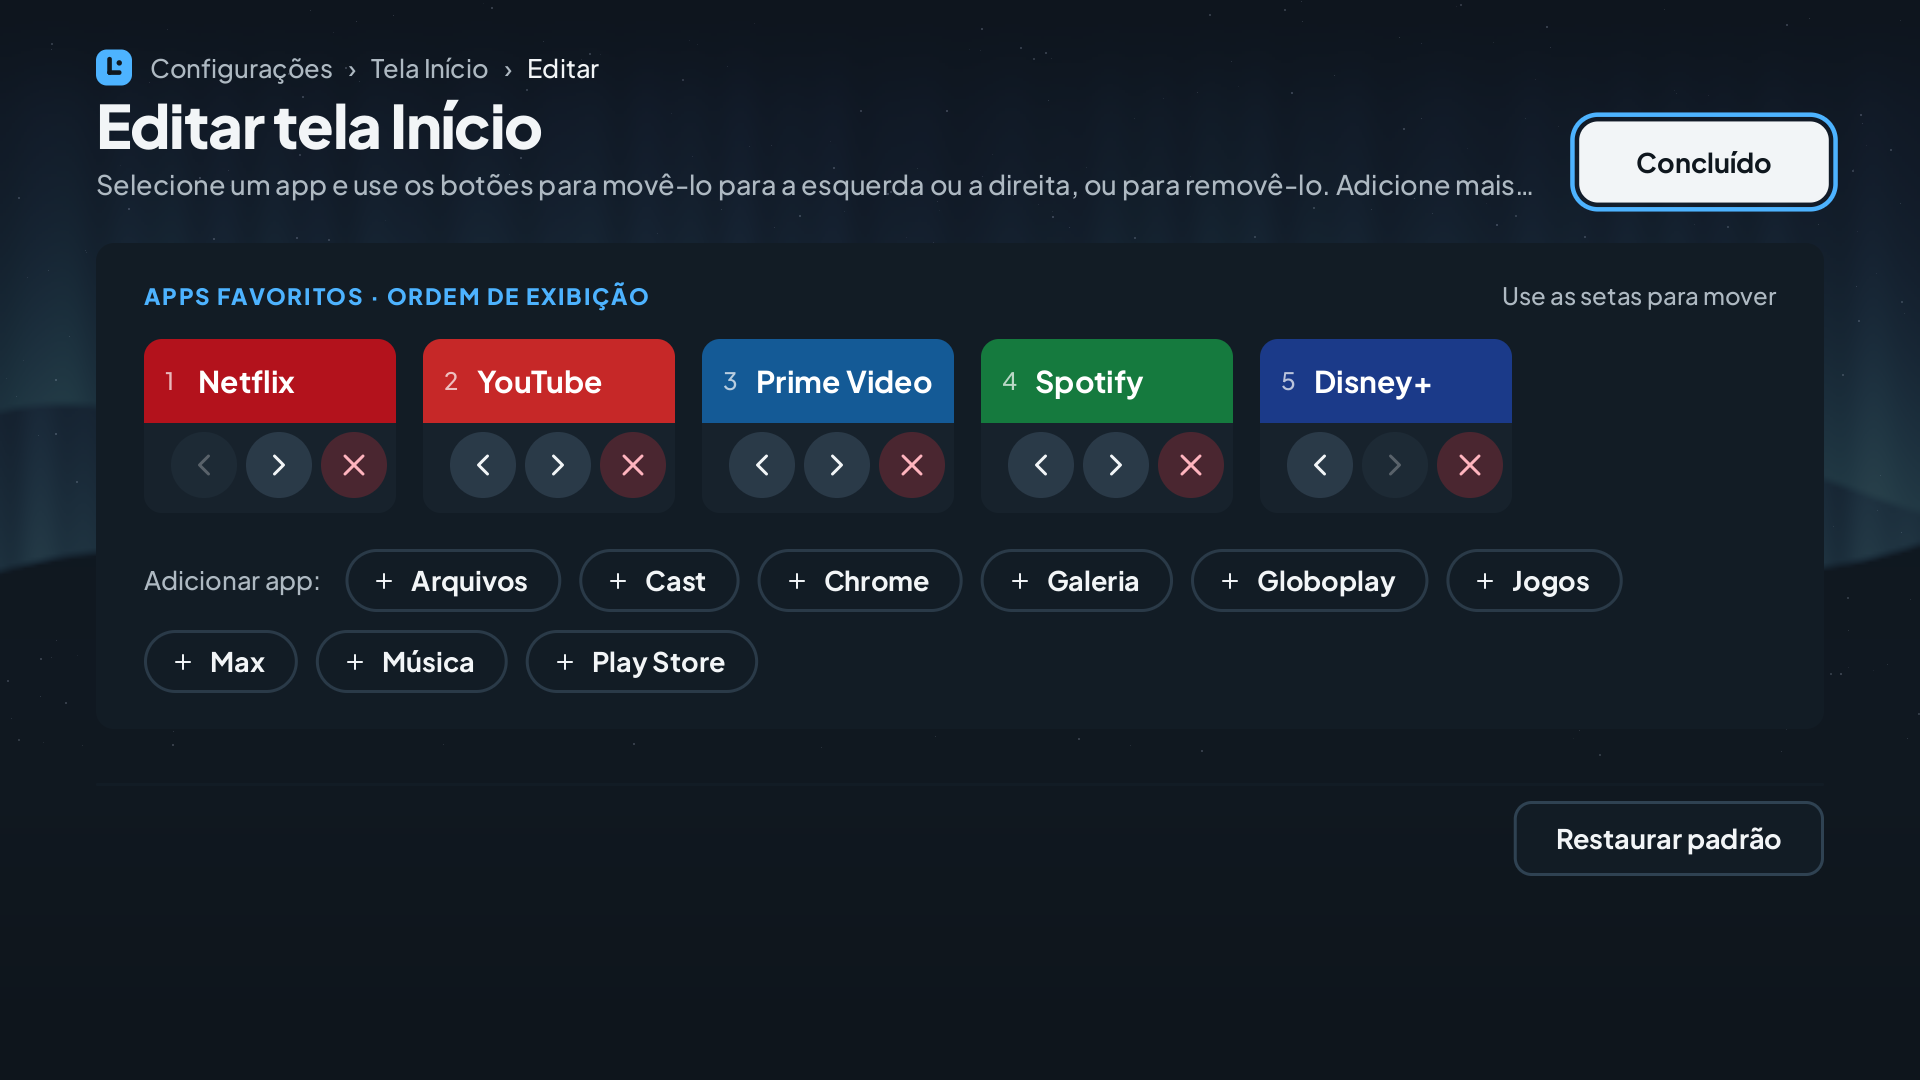
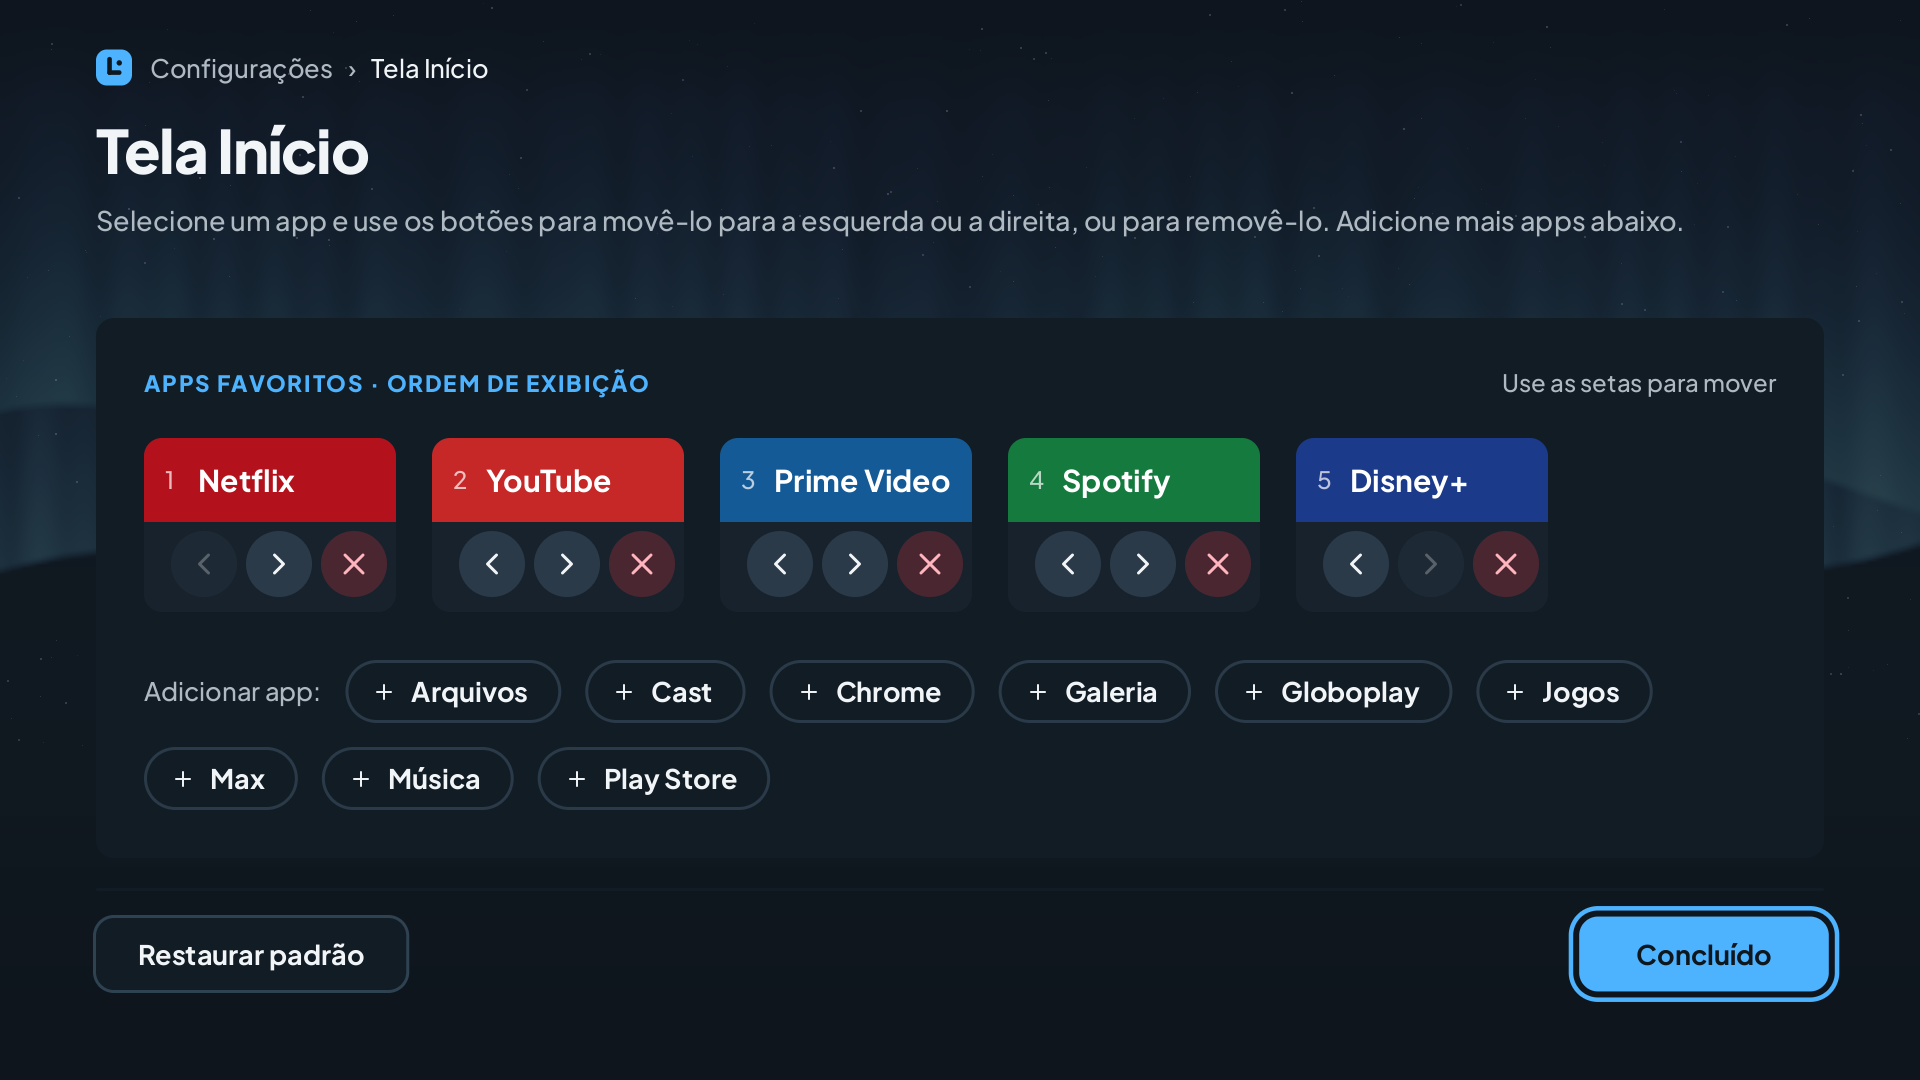
docs: Lume spelling, device notes, README screenshots and device specs
Claude-Session: https://claude.ai/code/session_01Kem4RuEAzUJtvQpxATGT86

diff --git a/CLAUDE.md b/CLAUDE.md
@@ -1,22 +1,29 @@
 # lume: guia para quem retoma o projeto
 
-lume é uma tela inicial (launcher) rápida e leve para Android TV, escrita em Rust (interface, tema, renderização OpenGL ES 2.0)
+Lume é uma tela inicial (launcher) rápida e leve para Android TV, escrita em Rust (interface, tema, renderização OpenGL ES 2.0)
 com uma camada fina de Java (`LumeActivity` e `LumeBridge`, só onde o Android exige). Orçamentos e decisões ficam nas specs.
 
 ## Onde está a verdade
 
 - `openspec/specs/`: o comportamento atual, por capacidade (home-screen, apps-screen, launcher-shell, wallpaper, theming, resource-efficiency...).
-- `openspec/changes/archive/`: o histórico das changes (`2026-10-19-lume-launcher-v0-1-0`, `2026-10-20-dock-aurora-redesign`). Nenhuma change está ativa.
+- `openspec/changes/archive/`: o histórico das changes (`2026-10-19-lume-launcher-v0-1-0`, `2026-10-20-dock-aurora-redesign`, `2026-10-20-v0-2-1`). Nenhuma change está ativa.
 - `docs/handoff-dock-aurora.md`: decisões do v0.2.0, armadilhas já resolvidas, como rodar e testar.
 - `docs/device-notes.md`: medidas na TV de referência (memória, quadros, CPU, tempos).
 - `docs/theme-format.md`, `docs/wallpaper.md`, `docs/translations.md`: formato do tema, papel de parede e traduções.
 
+## Design system
+
+A spec `openspec/specs/design-system/` é a regra visual: tokens, tipografia, medidas, componentes, foco e movimento.
+Leia antes de criar ou alterar qualquer tela; valores em `themes/lume/theme.css`; divergiu, atualize a spec no mesmo change.
+
 ## Estado
 
-v0.2.0 concluída e mesclada na `main` por squash (2026-10-20). Não há remoto git configurado; nada foi publicado.
+v0.2.0 mesclada na `main` por squash (2026-10-20). v0.2.1 (entradas, engrenagem, painel de estatísticas, design system) arquivada em
+`openspec/changes/archive/2026-10-20-v0-2-1`, na branch `feat/v0-2-1`, com PR aberta para a `main`. Remoto: `origin` (GitHub `douglaspands/tv-lume-launcher`).
 Pendências conhecidas, que dependem do autor: keystore de release, CI e release no GitHub, tag `v0.1.0`/`v0.2.0`,
-verificação em emulador Android TV e decisão sobre o orçamento do retorno a quente (a spec diz 300 ms; o sistema da TCL
-gasta cerca de 400 ms só na troca de janelas, o lume 75 a 110 ms; a proposta é medir só a parte do lume, até 150 ms).
+verificação em emulador Android TV (a máquina de desenvolvimento não tem emulador nem SDK de AVD: instalar o Android Studio ou `cmdline-tools` com
+imagem `system-images;android-28;android-tv;x86`, para validar o Android 9, tarefa 5.3 da `v0-2-1`, encerrada sem essa validação e deixada para uma spec futura de testes) e decisão sobre o orçamento do retorno a quente (a spec diz 300 ms; o sistema da TCL
+gasta cerca de 400 ms só na troca de janelas, o Lume 75 a 110 ms; a proposta é medir só a parte do Lume, até 150 ms).
 
 ## Como trabalhar aqui
 
@@ -32,12 +39,13 @@ gasta cerca de 400 ms só na troca de janelas, o lume 75 a 110 ms; a proposta é
 cargo test --workspace && cargo clippy --workspace --all-targets   # deve ficar limpo; cargo fmt --all
 cargo run -p lume-desktop -- --size 1920x1080 --locale en --keys right --screenshot home h.png   # telas: home apps settings about editor
 scripts/container-build.sh release       # APK em dist/ (runtime: wslc, docker, podman, nesta ordem; LUME_CONTAINER força outro)
-/usr/bin/python3 scripts/verify-apk.py dist/lume-0.2.0-release-debugsigned.apk   # limite 6 MB
+/usr/bin/python3 scripts/verify-apk.py dist/lume-0.2.1-release-debugsigned.apk   # limite 6 MB
 ```
 
 ## TV de referência (testes por adb)
 
-TCL 55C715 (2 GB de RAM, 4 núcleos), `adb -s 192.168.0.6:5555`; o autor autorizou testar nela.
+TCL 55C715 (2 GB de RAM, 4 núcleos), `adb -s 192.168.0.6:5555`; o autor autorizou testar nela. A TCL roda o firmware global (Android 11); o firmware original do Brasil é Android 9.
+Segunda TV de teste: AIWA SMART TV (KTC, 1280x720, ~913 MB de RAM, `low_ram`), `adb -s 192.168.0.3:5555`. Comparação em `docs/device-notes.md`.
 
 - Instalar: `adb uninstall app.lume.tv` antes (a chave de debug muda a cada build no container), depois `adb install dist/<apk>` e
   `adb shell cmd package set-home-activity app.lume.tv/.LumeActivity`.
@@ -53,8 +61,8 @@ TCL 55C715 (2 GB de RAM, 4 núcleos), `adb -s 192.168.0.6:5555`; o autor autoriz
 - Abas: mover o foco para uma aba troca a tela sem OK, com fade de 180 ms. Sublinhado azul com o foco na barra, branco com o foco no conteúdo.
 - Cores por papel (`--primary` azul `#4DB3FF`, `--secondary`); todo contorno de foco é azul primário; o nome do app em foco fica branco.
 - Grade de Apps: 6 colunas, ordem alfabética pelo nome mostrado (muda com o idioma do sistema). O tile "Lume" é um app como os outros
-  (retangular, logo) e abre as Configurações do lume. A marca se escreve "Lume" na interface.
-- Home com o lume visível leva à aba Início; voltando de um app aberto pelo lume, restaura tela, foco e rolagem (uma vez).
+  (retangular, logo) e abre as Configurações do Lume (só por ele). Na barra superior, o botão de entradas abre o menu de entradas da TV (escondido se a ação não resolve) e a engrenagem abre as configurações do Android. A marca se escreve "Lume" na interface.
+- Home com o Lume visível leva à aba Início; voltando de um app aberto pelo Lume, restaura tela, foco e rolagem (uma vez).
 
 ## Armadilhas já resolvidas
 
@@ -64,7 +72,7 @@ TCL 55C715 (2 GB de RAM, 4 núcleos), `adb -s 192.168.0.6:5555`; o autor autoriz
 - Métodos Java chamados só pelo Rust (JNI) precisam de `-keep` em `android/app/proguard-rules.pro`.
 - Carregar ícones durante uma animação trava o dock: o laço só carrega quando `Shell::is_busy` é falso.
 - `entry_down`/`entry_up` de `Row` são do destino do foco, não da origem.
-- O Android da TCL encerra o processo do lume em segundo plano quando um app pesado abre; o retorno é então uma abertura a frio.
+- O Android da TCL encerra o processo do Lume em segundo plano quando um app pesado abre; o retorno é então uma abertura a frio.
 
 ## Orçamentos (spec `resource-efficiency`)
 

diff --git a/README.pt-BR.md b/README.pt-BR.md
@@ -1,10 +1,10 @@
-# lume
+# Lume
 
-**Uma tela inicial rápida e leve para Android TV.** O lume substitui o launcher que veio na sua TV por um launcher simples, feito para o controle remoto, que usa pouquíssima memória, deixando mais memória para os seus apps de streaming.
+**Uma tela inicial rápida e leve para Android TV.** O Lume substitui o launcher que veio na sua TV por um launcher simples, feito para o controle remoto, que usa pouquíssima memória, deixando mais memória para os seus apps de streaming.
 
 [English](README.md) | Português
 
-> **Situação:** o lume está em desenvolvimento. A versão 0.1.0 ainda não foi lançada, então ainda não há download. Os passos abaixo são o que você fará quando ela sair.
+> **Situação:** o Lume está em desenvolvimento. A versão 0.1.0 ainda não foi lançada, então ainda não há download. Os passos abaixo são o que você fará quando ela sair.
 
 <p align="center">
   <img src="docs/screenshots/home-pt-BR.png" alt="Tela Início com o dock" width="49%">
@@ -21,7 +21,7 @@
 - Uma tela "Apps" com tudo o que está instalado na TV.
 - Tudo funciona com o controle remoto comum (setas, OK, Voltar, Home).
 - Português (Brasil) e inglês, seguindo o idioma da TV.
-- Nenhum acesso à internet: o lume nunca se conecta à rede e não pede permissões perigosas.
+- Nenhum acesso à internet: o Lume nunca se conecta à rede e não pede permissões perigosas.
 
 **O que você precisa**
 
@@ -31,11 +31,11 @@
 
 ---
 
-## Instalar o lume na TV
+## Instalar o Lume na TV
 
 Você vai enviar o app do computador para a TV com uma ferramenta pequena chamada **adb**. Só precisa fazer isso uma vez.
 
-### 1. Baixe o lume
+### 1. Baixe o Lume
 
 1. Abra a página **Releases** deste projeto no GitHub.
 2. Na versão mais nova, baixe o arquivo com nome parecido com **`lume-0.1.0.apk`**.
@@ -82,17 +82,17 @@ Vai aparecer uma mensagem na TV perguntando *"Permitir a depuração USB?"*. Esc
 adb devices
 ```
 
-Você deve ver a sua TV com a palavra `device` ao lado. Agora instale o lume (use o caminho real do arquivo que você baixou):
+Você deve ver a sua TV com a palavra `device` ao lado. Agora instale o Lume (use o caminho real do arquivo que você baixou):
 
 ```
 adb install "C:\Users\Voce\Downloads\lume-0.1.0.apk"
 ```
 
-Quando aparecer `Success`, o lume está instalado.
+Quando aparecer `Success`, o Lume está instalado.
 
-### 6. Faça do lume a sua tela inicial
+### 6. Faça do Lume a sua tela inicial
 
-1. Aperte o botão **Home** do controle. O Android pode perguntar qual app usar como tela inicial: escolha **lume** e **Sempre**.
+1. Aperte o botão **Home** do controle. O Android pode perguntar qual app usar como tela inicial: escolha **Lume** e **Sempre**.
 2. Se nada foi perguntado, ou se o Home ainda abre o launcher antigo, rode:
 
    ```
@@ -107,7 +107,7 @@ Quando aparecer `Success`, o lume está instalado.
 
 ### Voltar ao launcher original
 
-Remova o lume e, se você desligou o launcher original, ligue-o de novo:
+Remova o Lume e, se você desligou o launcher original, ligue-o de novo:
 
 ```
 adb shell pm enable com.google.android.tvlauncher
@@ -121,15 +121,15 @@ adb uninstall app.lume.tv
 | `adb: command not found` / `'adb' não é reconhecido` | Você não está na pasta platform-tools. Abra o terminal dentro dela (passo 2). |
 | `failed to connect` / `unable to connect` | Confira o endereço da TV, se TV e computador estão na mesma rede e se a depuração está ligada. Tente desligar e ligar a TV. |
 | `device unauthorized` | Olhe a tela da TV e aceite o aviso, depois rode `adb devices` de novo. |
-| `INSTALL_FAILED_OLDER_SDK` | A sua TV tem Android anterior ao 9. O lume não roda nela. |
-| `INSTALL_FAILED_UPDATE_INCOMPATIBLE` | Há outra versão do lume instalada. Rode `adb uninstall app.lume.tv` e instale de novo. |
+| `INSTALL_FAILED_OLDER_SDK` | A sua TV tem Android anterior ao 9. O Lume não roda nela. |
+| `INSTALL_FAILED_UPDATE_INCOMPATIBLE` | Há outra versão do Lume instalada. Rode `adb uninstall app.lume.tv` e instale de novo. |
 | O Home abre o launcher antigo | Repita o passo 6, opções 2 e 3. |
 
 ---
 
 ## Para desenvolvedores
 
-O lume é escrito em Rust. Ele desenha toda a interface com OpenGL ES 2.0 (sem Views, WebView, AndroidX ou Kotlin) e libera toda a memória de GPU enquanto outro app está em primeiro plano.
+O Lume é escrito em Rust. Ele desenha toda a interface com OpenGL ES 2.0 (sem Views, WebView, AndroidX ou Kotlin) e libera toda a memória de GPU enquanto outro app está em primeiro plano.
 
 ### Estrutura do repositório
 
@@ -237,7 +237,7 @@ As traduções são arquivos `strings.xml` padrão do Android em `android/app/sr
 
 ### Papel de parede
 
-O lume desenha uma fotografia de aurora boreal atrás de todas as telas. Como ela é processada no build, como trocá-la e onde ficam a origem e a licença: [`docs/wallpaper.md`](docs/wallpaper.md).
+O Lume desenha uma fotografia de aurora boreal atrás de todas as telas. Como ela é processada no build, como trocá-la e onde ficam a origem e a licença: [`docs/wallpaper.md`](docs/wallpaper.md).
 
 ### Contribuição, licença e marca
 

diff --git a/README.md b/README.md
@@ -1,10 +1,10 @@
-# lume
+# Lume
 
-**A fast, lightweight home screen for Android TV.** lume replaces the launcher that came with your TV with a clean, remote-friendly one that uses very little memory, so your streaming apps get more of it.
+**A fast, lightweight home screen for Android TV.** Lume replaces the launcher that came with your TV with a clean, remote-friendly one that uses very little memory, so your streaming apps get more of it.
 
 English | [Português](README.pt-BR.md)
 
-> **Status:** lume is in development. Version 0.1.0 has not been released yet, so there is no download yet. The steps below are what you will do once it is out.
+> **Status:** Lume is in development. Version 0.1.0 has not been released yet, so there is no download yet. The steps below are what you will do once it is out.
 
 <p align="center">
   <img src="docs/screenshots/home-en.png" alt="Home screen with the dock" width="49%">
@@ -21,7 +21,7 @@ English | [Português](README.pt-BR.md)
 - An "Apps" screen with everything installed on your TV.
 - Everything works with the normal TV remote (arrows, OK, Back, Home).
 - Portuguese (Brazil) and English, following your TV's language.
-- No internet access at all: lume never connects to the network and asks for no dangerous permissions.
+- No internet access at all: Lume never connects to the network and asks for no dangerous permissions.
 
 **What you need**
 
@@ -31,11 +31,11 @@ English | [Português](README.pt-BR.md)
 
 ---
 
-## Install lume on your TV
+## Install Lume on your TV
 
 You will send the app to the TV from your computer with a small tool called **adb**. You only do this once.
 
-### 1. Download lume
+### 1. Download Lume
 
 1. Open the **Releases** page of this project on GitHub.
 2. Under the newest version, download the file named like **`lume-0.1.0.apk`**.
@@ -82,17 +82,17 @@ A message will pop up on the TV asking *"Allow USB debugging?"*. Choose **Always
 adb devices
 ```
 
-You should see your TV with the word `device` next to it. Now install lume (use the real path of the file you downloaded):
+You should see your TV with the word `device` next to it. Now install Lume (use the real path of the file you downloaded):
 
 ```
 adb install "C:\Users\You\Downloads\lume-0.1.0.apk"
 ```
 
-When you see `Success`, lume is installed.
+When you see `Success`, Lume is installed.
 
-### 6. Make lume your home screen
+### 6. Make Lume your home screen
 
-1. Press the **Home** button on your remote. Android may ask which home app to use: choose **lume** and **Always**.
+1. Press the **Home** button on your remote. Android may ask which home app to use: choose **Lume** and **Always**.
 2. If nothing was asked, or Home still opens the old launcher, run:
 
    ```
@@ -107,7 +107,7 @@ When you see `Success`, lume is installed.
 
 ### Go back to the original launcher
 
-Remove lume, and if you turned the original launcher off, turn it on again:
+Remove Lume, and if you turned the original launcher off, turn it on again:
 
 ```
 adb shell pm enable com.google.android.tvlauncher
@@ -121,15 +121,15 @@ adb uninstall app.lume.tv
 | `adb: command not found` / `'adb' is not recognized` | You are not in the platform-tools folder. Open the terminal inside it (step 2). |
 | `failed to connect` / `unable to connect` | Check the TV address, that the TV and the computer are on the same network, and that debugging is on. Try turning the TV off and on. |
 | `device unauthorized` | Look at the TV screen and accept the prompt, then run `adb devices` again. |
-| `INSTALL_FAILED_OLDER_SDK` | Your TV runs Android older than 9. lume cannot run on it. |
-| `INSTALL_FAILED_UPDATE_INCOMPATIBLE` | A different build of lume is installed. Run `adb uninstall app.lume.tv` and install again. |
+| `INSTALL_FAILED_OLDER_SDK` | Your TV runs Android older than 9. Lume cannot run on it. |
+| `INSTALL_FAILED_UPDATE_INCOMPATIBLE` | A different build of Lume is installed. Run `adb uninstall app.lume.tv` and install again. |
 | Home opens the old launcher | Repeat step 6, options 2 and 3. |
 
 ---
 
 ## For developers
 
-lume is written in Rust. It draws its whole interface itself with OpenGL ES 2.0 (no Views, no WebView, no AndroidX, no Kotlin) and releases all GPU memory while another app is in front.
+Lume is written in Rust. It draws its whole interface itself with OpenGL ES 2.0 (no Views, no WebView, no AndroidX, no Kotlin) and releases all GPU memory while another app is in front.
 
 ### Repository layout
 
@@ -237,7 +237,7 @@ Translations are standard Android `strings.xml` files in `android/app/src/main/r
 
 ### Wallpaper
 
-lume draws one northern-lights photograph behind every screen. How it is processed at build time, how to replace it and where its source and license are recorded: [`docs/wallpaper.md`](docs/wallpaper.md).
+Lume draws one northern-lights photograph behind every screen. How it is processed at build time, how to replace it and where its source and license are recorded: [`docs/wallpaper.md`](docs/wallpaper.md).
 
 ### Contributing, license and trademarks
 

diff --git a/docs/translations.md b/docs/translations.md
@@ -1,6 +1,6 @@
-# Translating lume
+# Translating Lume
 
-lume shows its texts in the language of the Android system. Translations are standard Android resource files, so you can edit them with any text editor, Android Studio, Weblate or Crowdin. You do not need to know Rust.
+Lume shows its texts in the language of the Android system. Translations are standard Android resource files, so you can edit them with any text editor, Android Studio, Weblate or Crowdin. You do not need to know Rust.
 
 ## Add a language
 
@@ -19,7 +19,7 @@ lume shows its texts in the language of the Android system. Translations are sta
    cp android/app/src/main/res/values/strings.xml android/app/src/main/res/values-es/strings.xml
    ```
 
-   (Create the `values-es` folder first.) The English file is the reference: it lists every text lume has.
+   (Create the `values-es` folder first.) The English file is the reference: it lists every text Lume has.
 
 3. Translate the text inside each `<string>` and each `<item>` of a `<plurals>`. Do **not** change the `name` attributes.
 
@@ -45,9 +45,9 @@ Texts with a quantity use `<plurals>` with the CLDR categories of your language:
 </plurals>
 ```
 
-Which categories a language uses is defined by the CLDR (see the [plural rules table](https://www.unicode.org/cldr/charts/latest/supplemental/language_plural_rules.html)). lume knows the rules of English and most European languages, Portuguese, French, Russian and Ukrainian, Polish, Czech and Slovak, Arabic, and the languages without plural forms (Japanese, Chinese, Korean, Vietnamese, Thai, Indonesian...).
+Which categories a language uses is defined by the CLDR (see the [plural rules table](https://www.unicode.org/cldr/charts/latest/supplemental/language_plural_rules.html)). Lume knows the rules of English and most European languages, Portuguese, French, Russian and Ukrainian, Polish, Czech and Slovak, Arabic, and the languages without plural forms (Japanese, Chinese, Korean, Vietnamese, Thai, Indonesian...).
 
-If your language follows a rule lume does not know yet, add one line to `family_of` in `crates/lume-core/src/i18n/plural.rs` (or, for a new rule, a new family and its test), and mention it in your pull request. Until then lume uses the English rule for that language.
+If your language follows a rule Lume does not know yet, add one line to `family_of` in `crates/lume-core/src/i18n/plural.rs` (or, for a new rule, a new family and its test), and mention it in your pull request. Until then Lume uses the English rule for that language.
 
 ## What happens when something is wrong
 
@@ -83,9 +83,9 @@ cargo run -p lume-desktop -- --pseudo-locale --screenshot editor /tmp/editor-pse
 
 Nothing should overlap, and texts that do not fit must end with an ellipsis.
 
-## Which language lume chooses
+## Which language Lume chooses
 
-lume reads the user's language list from Android, in order of preference, and uses the first language it has a translation for. For each preference it tries the exact variant first (`pt-BR`), then the language alone (`pt`, which also matches `pt-BR` when that is the only Portuguese available). If nothing matches it uses English.
+Lume reads the user's language list from Android, in order of preference, and uses the first language it has a translation for. For each preference it tries the exact variant first (`pt-BR`), then the language alone (`pt`, which also matches `pt-BR` when that is the only Portuguese available). If nothing matches it uses English.
 
 ## Scripts that are not Latin
 

diff --git a/docs/theme-format.md b/docs/theme-format.md
@@ -55,7 +55,7 @@ A variable can use another one (`--accent: var(--primary);`), so a theme can set
 
 Only the components below, with at most one pseudo-class: `:focus` (D-pad focus), `:active` (selected) and `:disabled`.
 
-`.app` `.topbar` `.tab` `.clock` `.icon-button` `.button` `.section-title` `.tile` `.tile-label` `.dock` `.dock-label` `.editor-row` `.chip` `.panel` `.breadcrumb` `.settings-item` `.toast`
+`.app` `.topbar` `.tab` `.clock` `.icon-button` `.button` `.button-secondary` `.button-danger` `.section-title` `.tile` `.tile-label` `.dock` `.dock-label` `.editor-row` `.chip` `.panel` `.breadcrumb` `.settings-item` `.toast`
 
 ```css
 .tab { color: rgba(255, 255, 255, 0.7); }
